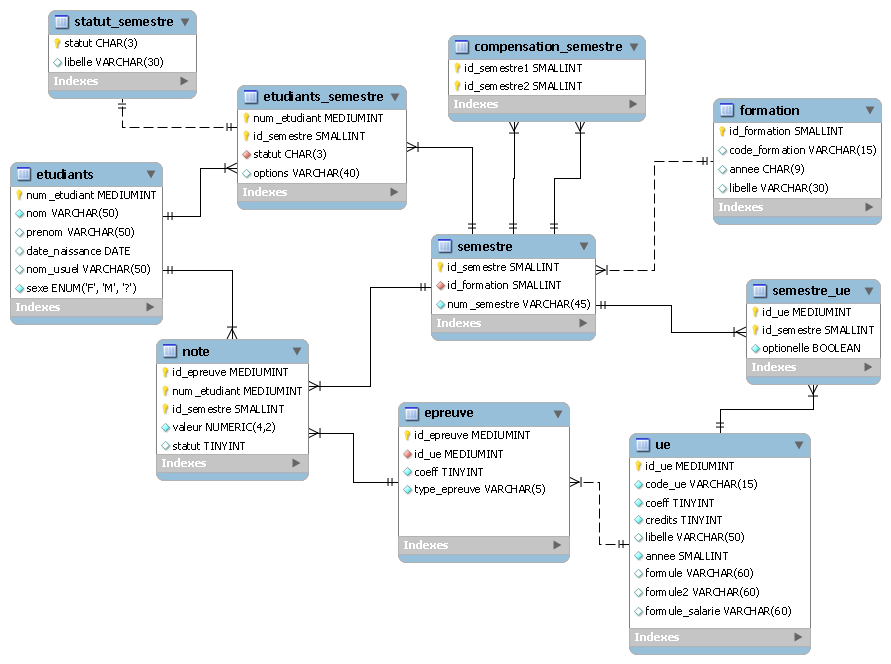
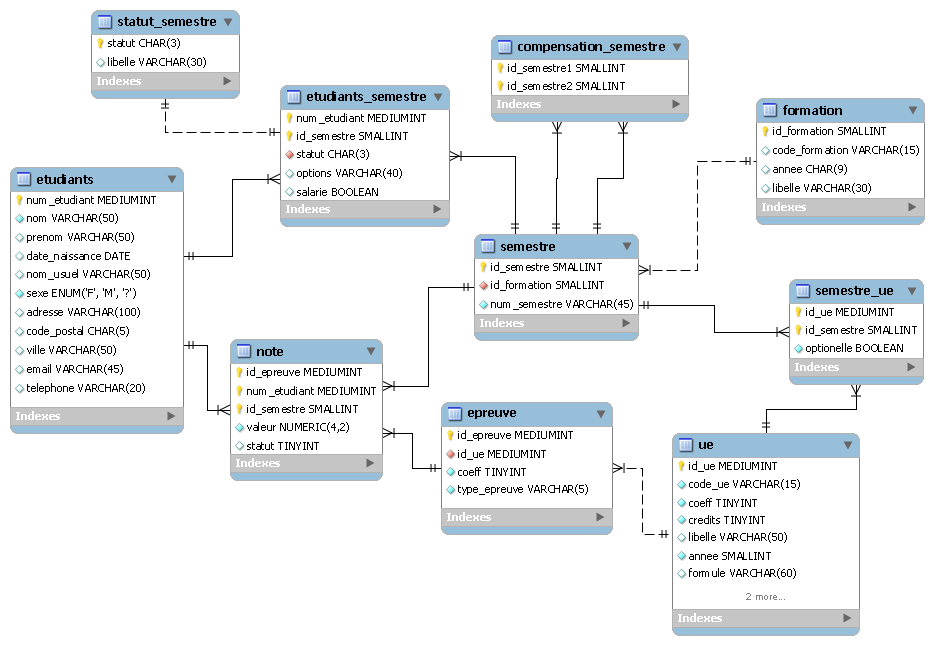
import des adresses, tel et email + interface de la fiche etudiant

diff --git a/ogre/www/less/style.css b/ogre/www/less/style.css
@@ -3,6 +3,8 @@
   -moz-border-radius:5px;
   -webkit-border-radius:5px;
 }
+.clear { clear:both; }
+.format { overflow:hidden; }
 .container {
   min-width:960px;
   max-width:1200px;
@@ -93,7 +95,7 @@
   padding:7px 9px;
   font-weight:bold;
   border:1px solid #dfdfdf;
-  margin-bottom:15px;
+  margin-bottom:20px;
   border-radius:5px;
   -moz-border-radius:5px;
   -webkit-border-radius:5px;
@@ -328,7 +330,7 @@ ul.liste { padding-left:15px; }
   padding:5px 9px;
   font-weight:bold;
   border:1px solid #dfdfdf;
-  margin-bottom:15px;
+  margin-bottom:20px;
   margin-bottom:0;
   border-radius:5px;
   -moz-border-radius:5px;
@@ -358,7 +360,10 @@ table.saisie-epreuve tr input { text-align:center; }
 table.saisie-epreuve tr input, table.saisie-epreuve tr th:last-child { width:40px; }
 table.saisie-epreuve { width:350px; }
 #jforms_formations_semestre_ue span.jforms-chkbox { display:block; }
-.historique ul { padding-left:15px; }
+.historique ul {
+  padding-left:15px;
+  padding-top:3px;
+}
 .historique ul li {
   list-style:none;
   background:url(../themes/default/img/bullet_arrow_right.png) left center no-repeat;
@@ -367,8 +372,7 @@ table.saisie-epreuve { width:350px; }
   padding-bottom:1px;
 }
 .historique > li {
-  border:1px solid #dfdfdf;
-  margin:0 15px 15px 0;
+  margin:0 15px 0 0;
   padding:5px;
   list-style:none;
   display:inline-block;
@@ -381,7 +385,10 @@ table.saisie-epreuve { width:350px; }
 .historique li.AJC { background-image:url(../themes/default/img/bell.png); }
 .historique li.DET { background-image:url(../themes/default/img/hourglass_link.png); }
 .historique .annee { font-weight:bold; }
-.historique { padding:0; }
+.historique {
+  margin:0;
+  padding:0;
+}
 ul.saisie-note > li {
   float:left;
   list-style:none;
@@ -487,3 +494,24 @@ ul.saisie-note {
   border-color:#bbbbbb;
   text-shadow:0 1px 0 #ffffff;
 }
+.block .legend {
+  font-size:1.5em;
+  position:absolute;
+  top:-15px;
+  left:15px;
+  background:white;
+  padding:0 5px;
+  border-bottom:2px solid #dfdfdf;
+}
+.block {
+  padding:25px 10px 0px 10px;
+  border:2px dotted #dfdfdf;
+  margin-bottom:25px;
+  position:relative;
+}
+#historique { margin-left:71.5%; }
+#fiche-semestres {
+  float:left;
+  width:70%;
+}
+#fiche table { max-width:600px; }

diff --git a/ogre/www/themes/default/css/style.less b/ogre/www/themes/default/css/style.less
@@ -7,6 +7,8 @@
   -webkit-border-radius: @radius;
 }
 
+.clear{clear:both}
+.format{overflow:hidden;}
 
 .container{
     /*width:960px;*/
@@ -123,7 +125,7 @@
     padding:7px 9px;
     font-weight:bold;
     border:1px solid #DFDFDF;
-    margin-bottom:15px;
+    margin-bottom:20px;
     .border-radius(5px);
 }
 
@@ -464,17 +466,16 @@ table.saisie-epreuve{
 
 
 .historique{
-    
+    margin:0;
     padding:0;
-    ul{padding-left:15px;}
+    ul{padding-left:15px;padding-top:3px;}
     ul li{
         .puce-fleche;
         padding-top: 1px;
         padding-bottom: 1px;
     }
     > li{
-        border:1px solid #dfdfdf;
-        margin:0 15px 15px 0;
+        margin:0 15px 0 0;
         padding:5px;
         list-style:none;
         display:inline-block;
@@ -491,6 +492,7 @@ table.saisie-epreuve{
     
     .annee{
         font-weight:bold;
+        
     }
 }
 
@@ -594,5 +596,42 @@ ul.saisie-note{
     
     .ui-button[aria-pressed='false']{
         .button;
+    }
+}
+
+
+
+.block{
+    padding:25px 10px 0px 10px;
+    border:2px dotted #dfdfdf;
+    margin-bottom:25px;
+    position :relative;
+    .legend{
+        font-size:1.5em;
+        position:absolute;
+        top:-15px;
+        left:15px;
+        background:white;
+        padding:0 5px;
+        border-bottom:2px solid #dfdfdf;
+    }
+    
+}
+
+#historique{
+    margin-left:71.5%;
+    /*border:3px dashed #dfdfdf;*/
+}
+
+#fiche-semestres{
+    float:left;
+    width:70%;
+}
+
+
+#fiche{
+    
+    table{
+        max-width:600px;
     }
 }

diff --git a/ogre/modules/etudiants/controllers/import.classic.php b/ogre/modules/etudiants/controllers/import.classic.php
@@ -103,6 +103,12 @@ class importCtrl extends jController {
                 $etudiant->prenom = utf8_encode(ucfirst(strtolower($etu->prenom)));
                 $etudiant->nom_usuel = utf8_encode(strtoupper($etu->nom_usuel));
                 
+                $etudiant->adresse = utf8_encode($etu->adresse);
+                $etudiant->code_postal = $etu->code_postal;
+                $etudiant->ville =  utf8_encode($etu->ville);
+                $etudiant->email = utf8_encode($etu->email);
+                $etudiant->telephone = $etu->telephone;
+                
                 //transformation de la date en format francais en format anglais
                 $dt->setFromString($etu->date_naissance, jDateTime::LANG_DFORMAT);
                 $etudiant->date_naissance = $dt->toString(jDateTime::DB_DFORMAT);

diff --git a/ogre/modules/utils/classes/etudiantsApogee.class.php b/ogre/modules/utils/classes/etudiantsApogee.class.php
@@ -44,6 +44,11 @@ class etudiantsApogee{
                         $etu->prenom = $line[6];
                         $etu->nom_usuel = $line[7];
                         $etu->date_naissance = $line[8];
+                        $etu->adresse = $line[11];
+                        $etu->code_postal = $line[12];
+                        $etu->ville = $line[13];
+                        $etu->telephone = $line[14];
+                        $etu->email= $line[30];
                         
                         $data[] = $etu;
                     }
